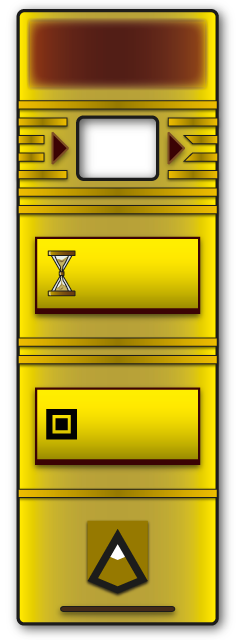
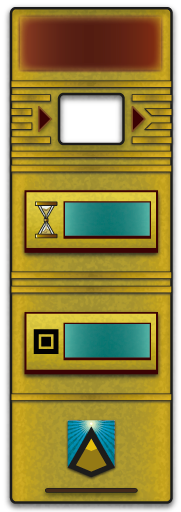
Wip

diff --git a/samples/90-labyr/gui/hud.css b/samples/90-labyr/gui/hud.css
@@ -22,28 +22,28 @@ body {
 .title {
     position:absolute;
     width:120px;
-    top: 40px;
-    left: 55px;
+    top: 30px;
+    left: 35px;
     font-size:35px;
     color:yellow;
 }
 
 .score {
-    font-size:30px;
+    font-size:25px;
     position:absolute;
     display:inline-block;
     text-align: right;
     color:white;
-    left:80px;
-    top:410px;
+    left:70px;
+    top:330px;
 }
 
 .decor {
     display:block;
     position:absolute;
     margin:0;
-    width:237px;
-    height:640px;
+    width:181px;
+    height:512px;
     top:0;
     left:0;
     background-image: url("/gui/hud.png");

diff --git a/samples/90-labyr/gui/hud.html b/samples/90-labyr/gui/hud.html
@@ -12,7 +12,7 @@ function pad(num, size) {
 }
 
 function updateScore(score) {
-    document.getElementById("score").innerHTML = pad(score, 6);
+    document.getElementById("score").innerHTML = pad(score, 5);
 }
 </script>
 
@@ -21,7 +21,7 @@ function updateScore(score) {
     <div class="decor slideRight">
         <span class="title">Level 1</span>
 
-        <div class="score"><span id="score">000000</span></div>
+        <div class="score"><span id="score">00000</span></div>
     </div>
 </div>
 </body>

diff --git a/samples/90-labyr/gui/main.html b/samples/90-labyr/gui/main.html
@@ -11,7 +11,6 @@
     <div class="buttons">
         <div class="css_button" onclick="gengine_execute('onStartClick()');">START</div><p/>
         <div class="css_button">HIGHSCORES</div><p/>
-        <div class="css_button">ABOUT</div><p/>
         <div class="css_button" onclick="gengine_execute('gengine.application.quit()');">QUIT</div>
     </div>
 </div>

diff --git a/samples/90-labyr/gui/main.css b/samples/90-labyr/gui/main.css
@@ -47,8 +47,8 @@ div.buttons {
     background-image: url("/gui/parchemin.png");
     background-size:100% 100%;
     width:256px;
-    height:55px;
-    padding-top:15px;
+    height:50px;
+    padding-top:10px;
 }
 
 .css_button:hover {
